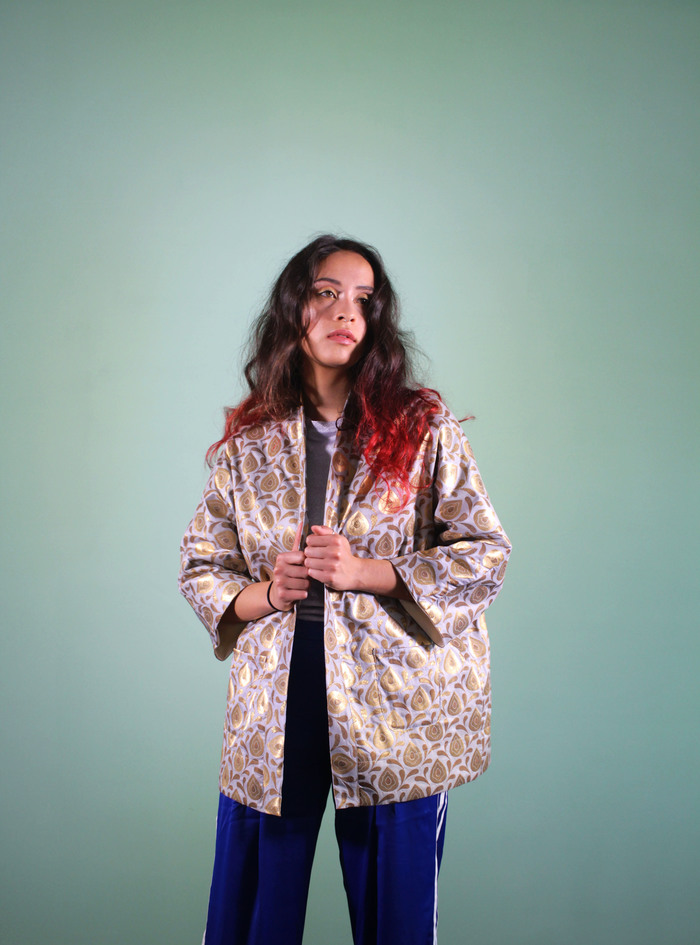
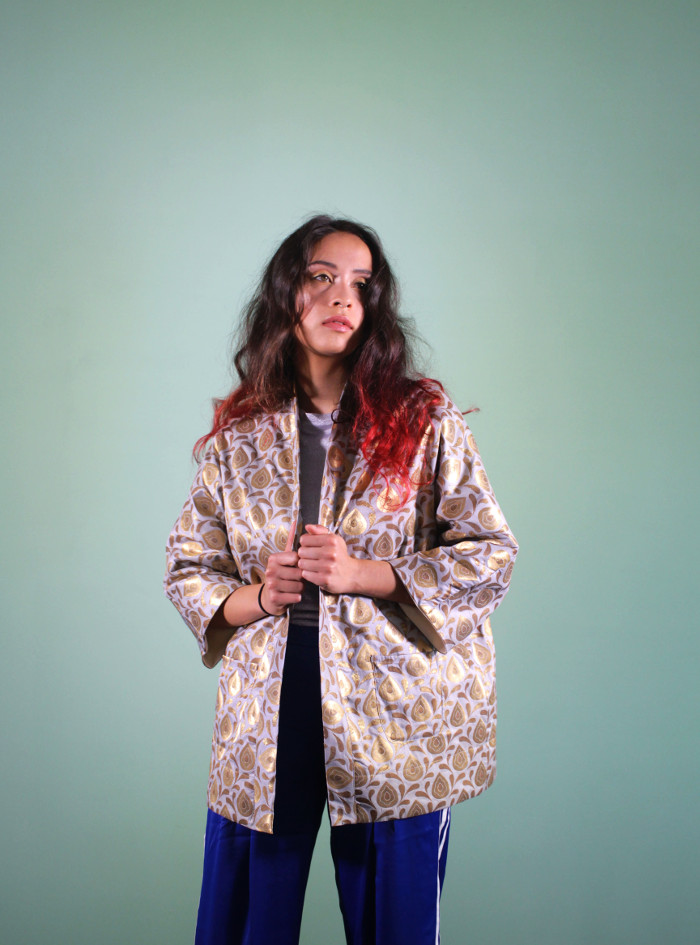
picture updated

Changed region(s): [[0.24, 0.2148, 0.75, 1.0]]

diff --git a/src/pictures/index.js b/src/pictures/index.js
@@ -1,13 +1,13 @@
 import IMG_4948 from 'pictures/2018/IMG_4948 copie.jpg'
 import IMG_4979 from 'pictures/2018/IMG_4979 copie.jpg'
-import IMG_4950 from 'pictures/2018/IMG_4950.JPG'
+import IMG_4967 from 'pictures/2018/IMG_4967 copie.jpg'
 import IMG_5012 from 'pictures/2018/IMG_5012 copie.jpg'
 import IMG_5023 from 'pictures/2018/IMG_5023 copie.jpg'
 import IMG_5026 from 'pictures/2018/IMG_5026 copie.jpg'
 import IMG_5046 from 'pictures/2018/IMG_5046 copie.jpg'
 import IMG_5048 from 'pictures/2018/IMG_5048 copie.jpg'
 import IMG_5078 from 'pictures/2018/IMG_5078 copie.jpg'
-import IMG_5136 from 'pictures/2018/IMG_5136 copie.jpg'
+import IMG_5142 from 'pictures/2018/IMG_5142 copie.jpg'
 import IMG_5144 from 'pictures/2018/IMG_5144 copie.jpg'
 import IMG_5147 from 'pictures/2018/IMG_5147 copie.jpg'
 import IMG_5169 from 'pictures/2018/IMG_5169 copie.jpg'
@@ -70,16 +70,16 @@ import MG_3518 from 'pictures/2017/MG_3518.jpg'
 import MG_3560 from 'pictures/2017/MG_3560.jpg'
 
 export const pictures = [
-  IMG_4979,
+  IMG_4967,
   IMG_4948,
-  IMG_4950,
+  IMG_4979,
   IMG_5012,
   IMG_5023,
   IMG_5026,
   IMG_5046,
   IMG_5048,
   IMG_5078,
-  IMG_5136,
+  IMG_5142,
   IMG_5144,
   IMG_5147,
   IMG_5175,
